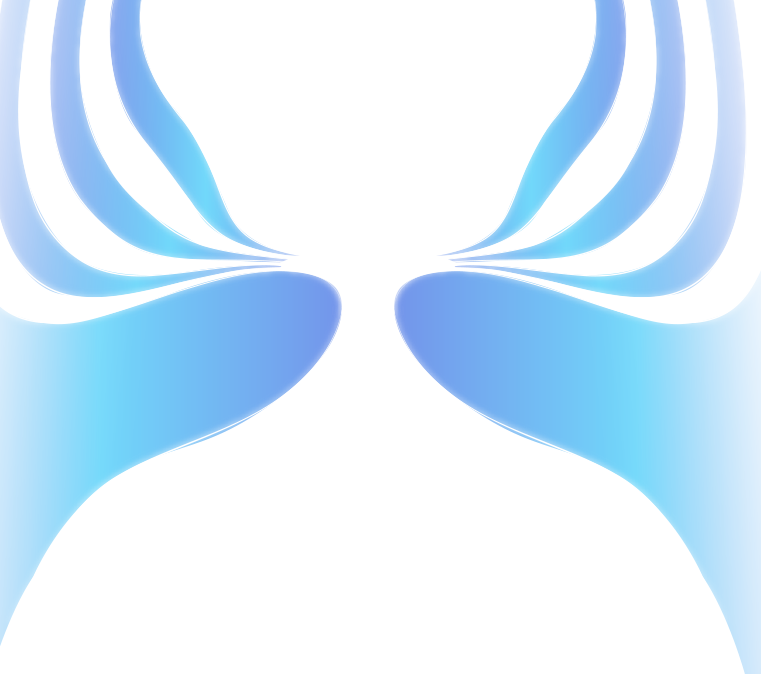
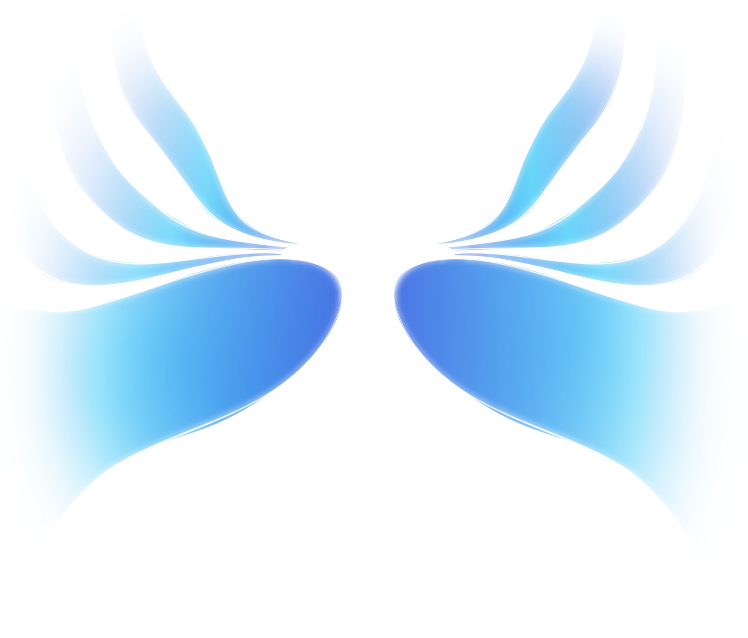
update images

diff --git a/src/components/FaceFilter.jsx b/src/components/FaceFilter.jsx
@@ -13,9 +13,9 @@ import imagesEarRight from '@/images/ear-right.png' // 182x295
 import imagesLamp from '@/images/lamp.png' // 179x242
 import imagesMegaphone from '@/images/megaphone.png' // 398x241
 import imagesSpiderman from '@/images/spiderman.png' // 385x500
-import imageOption1 from '@/images/option1.png' // 761x674
-import imageOption2 from '@/images/option2.png' // 780x421
-import imageOption3 from '@/images/option3.png'// 786x679
+import imageOption1 from '@/images/option1.png' // 748x638
+import imageOption2 from '@/images/option2.png' // 771x397
+import imageOption3 from '@/images/option3.png'// 786x658
 
 function FaceFilter() {
   // Is Ready for P5, Dimensions of Camera, Permission Error
@@ -173,7 +173,7 @@ function FaceFilter() {
       // height = ((chin's y) - (highest of brow's y)) * 2 | 2 to make up for image size
       // width = height * (original image width / original image height)
       const imageHeight = Math.abs(positions[7][1] - Math.max(positions[16][1], positions[20][1])) * 2
-      const imageWidth = imageHeight * (761 / 674)
+      const imageWidth = imageHeight * (748 / 638)
 
       // translate origin to top(-47%) left(-48%) of image
       // draw option1 image between eyes
@@ -191,7 +191,7 @@ function FaceFilter() {
       // height = ((chin's y) - (highest of brow's y)) * 2 | 1.2 to make up for image size
       // width = height * (original image width / original image height)
       const imageHeight = Math.abs(positions[7][1] - Math.max(positions[16][1], positions[20][1])) * 1.2
-      const imageWidth = imageHeight * (780 / 421)
+      const imageWidth = imageHeight * (771 / 397)
 
       // translate origin to top(-50%) left(-47%) of image
       // draw option2 image in the middle of face and a little higher than brows | 0.95 to move up a little
@@ -209,7 +209,7 @@ function FaceFilter() {
       // height = ((chin's y) - (highest of brow's y)) * 2 | 2 to make up for image size
       // width = height * (original image width / original image height)
       const imageHeight = Math.abs(positions[7][1] - Math.max(positions[16][1], positions[20][1])) * 2
-      const imageWidth = imageHeight * (786 / 679)
+      const imageWidth = imageHeight * (786 / 658)
 
       // translate origin to top(-49%) left(-47%) of image
       // draw option3 image between eyes
